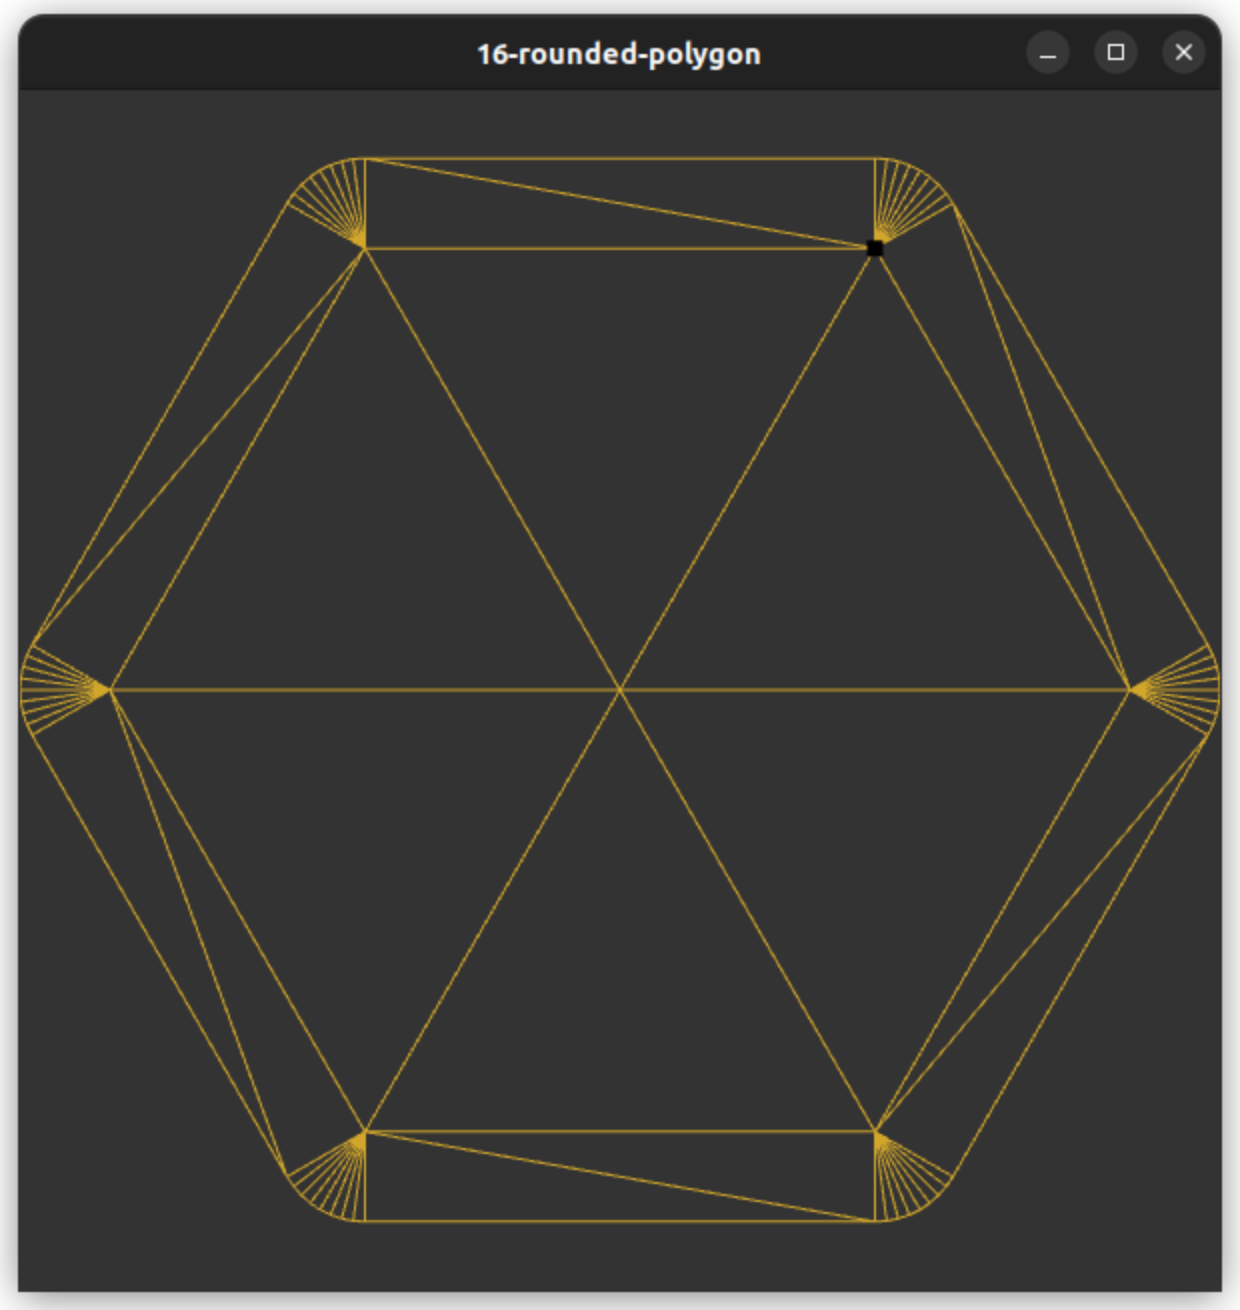
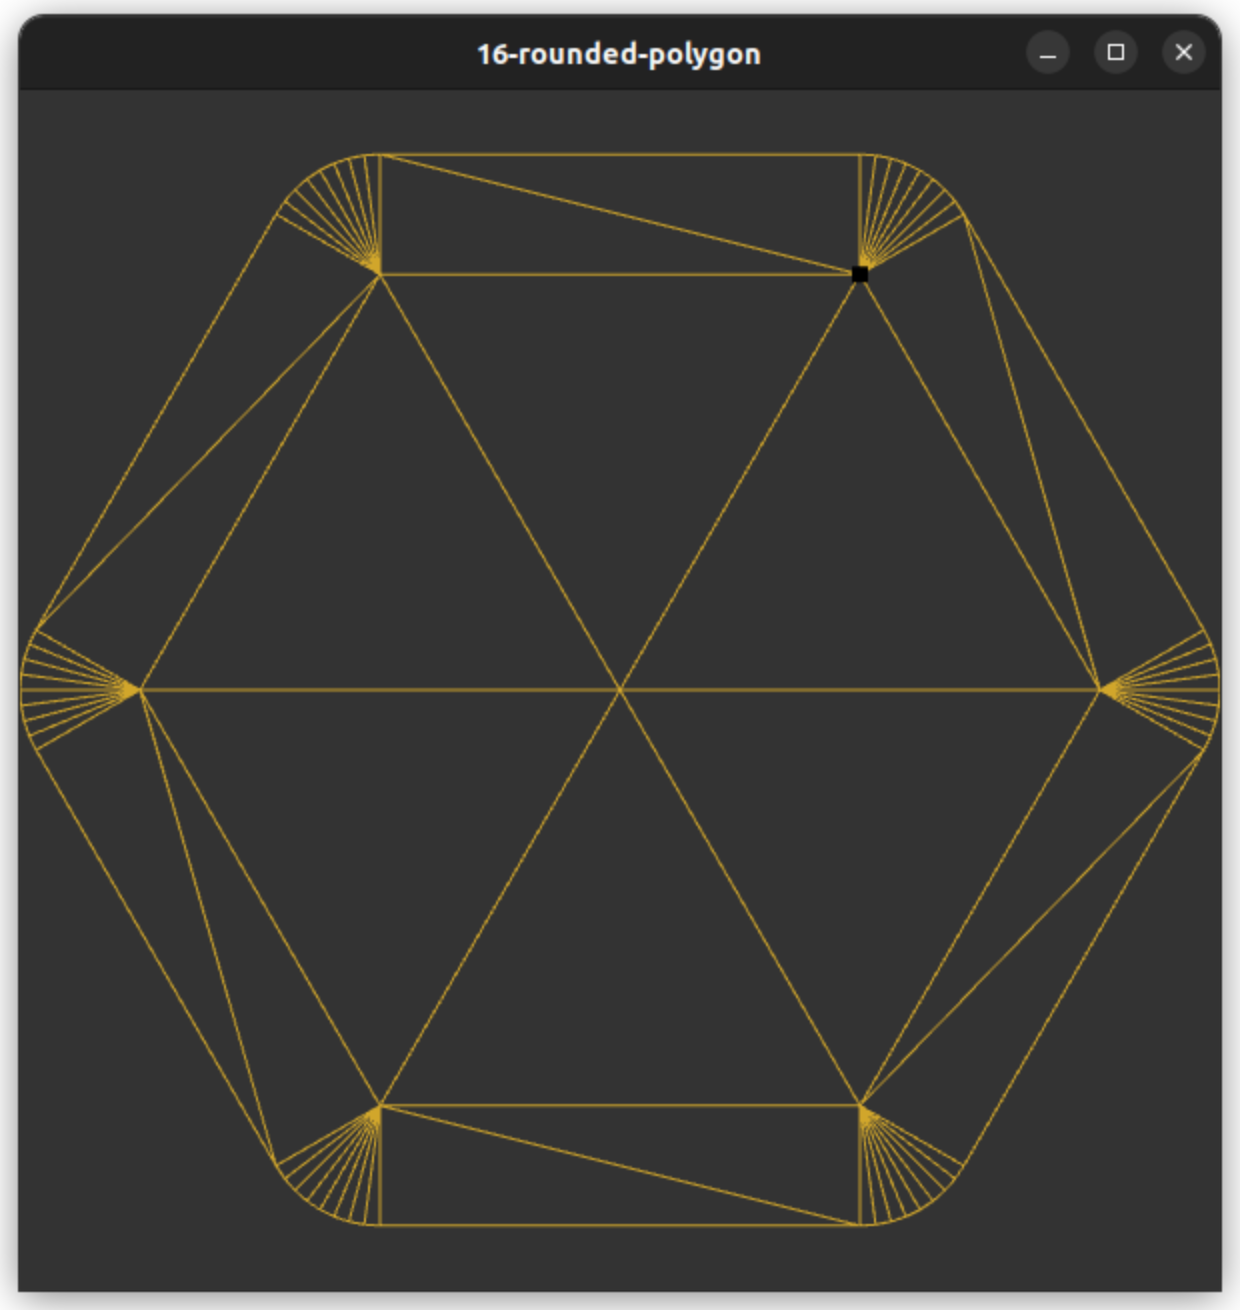
Cleanup.

diff --git a/src/16-rounded-polygon/rounded-polygon.cpp b/src/16-rounded-polygon/rounded-polygon.cpp
@@ -190,16 +190,16 @@ static std::vector<glm::vec2> gen_pie(
 
 /**
  * Generates a rectangle that lies on the external side of a regular polygon.
+ * `n` specifies the number of sides of the regular polygon. Must be >=3.
  * `ri` specifies the circumradius of the regular polygon.
  * `rc` specifies the radius of the corners.
  * `angle` specifies the rotation angle in radians.
  *     For the bottom rectangle, the angle is zero.
- * 'n' specifies the number of sides of the regular polygon.
- * Returns a vector of four 2d vertices.
+ * Returns a vector of six 2d vertices.
  */
-static std::vector<glm::vec2> gen_rect(float ri, float rc, float angle, int n)
+static std::vector<glm::vec2> gen_rect(int n, float ri, float rc, float angle)
 {
-    // For an regular polygon, find the side length and apothem.
+    // Find the side length and apothem of a regular polygon.
     // https://en.wikipedia.org/wiki/Regular_polygon#Circumradius
     const float side = ri * 2 * std::sin(glm::pi<float>() / n);
     const float apothem = ri * std::cos(glm::pi<float>() / n);
@@ -252,7 +252,7 @@ static std::vector<glm::vec2> gen_polygon(int n, float ri, float rc)
 
     // Rectangles
     for (int i = 0; i < n; i++) {
-        const auto v = gen_rect(ri, rc, i * angle, n);
+        const auto v = gen_rect(n, ri, rc, i * angle);
         vertices.insert(vertices.end(), v.begin(), v.end());
     }
 
@@ -302,7 +302,7 @@ int main()
     glUseProgram(program);
 
     // Generate the vertices of our rounded polygon
-    const std::vector<glm::vec2> vertices = gen_polygon(6, 0.85f, 0.15f);
+    const std::vector<glm::vec2> vertices = gen_polygon(6, 0.8f, 0.2f);
 
     // Create and populate interleaved vertex buffer using
     // DSA (Direct State Access) API in OpenGL 4.5.
